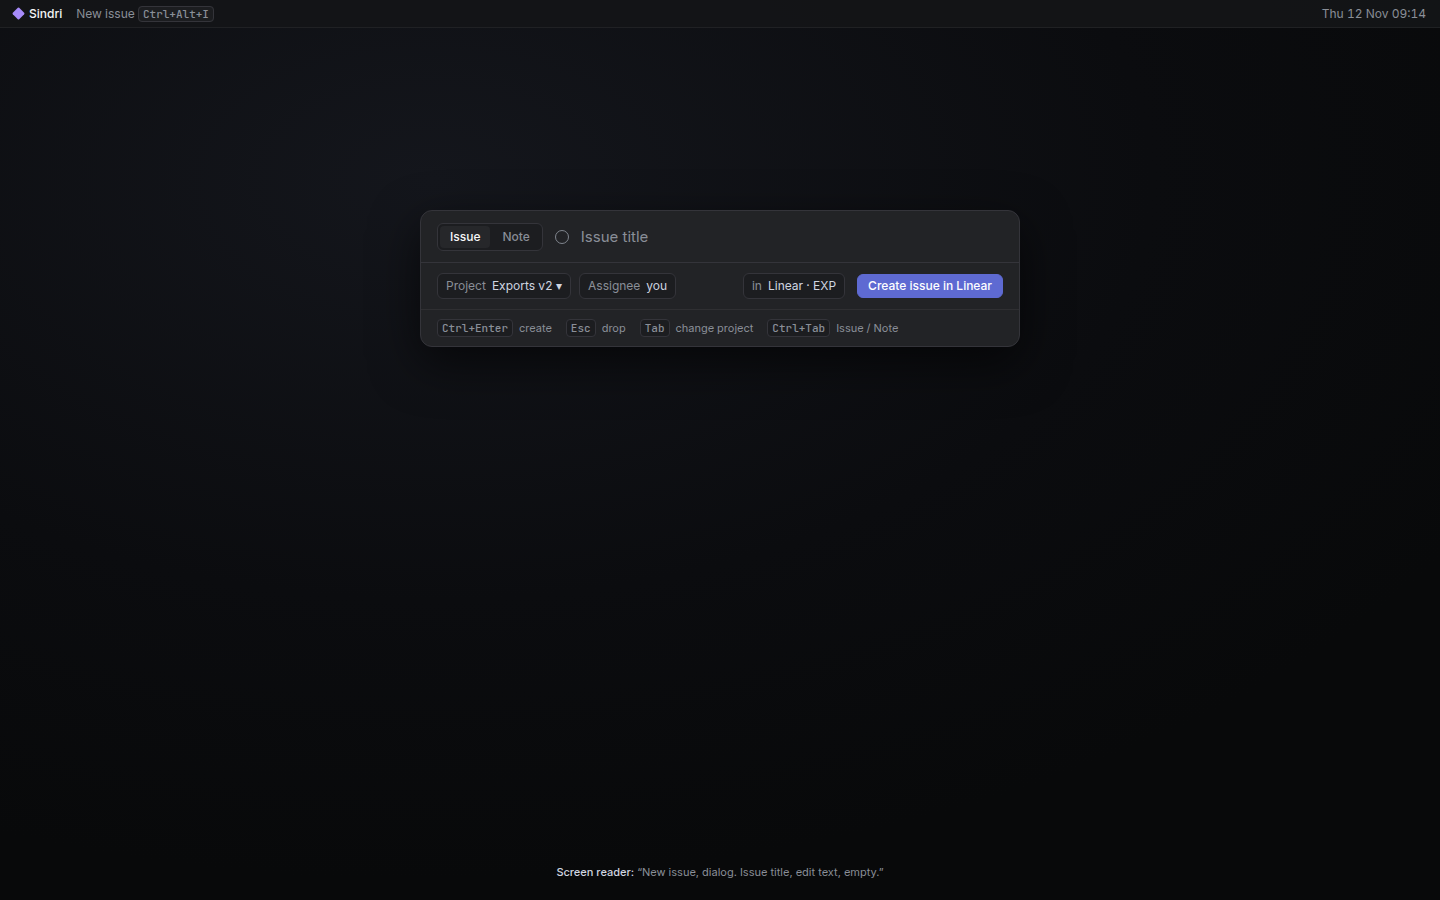
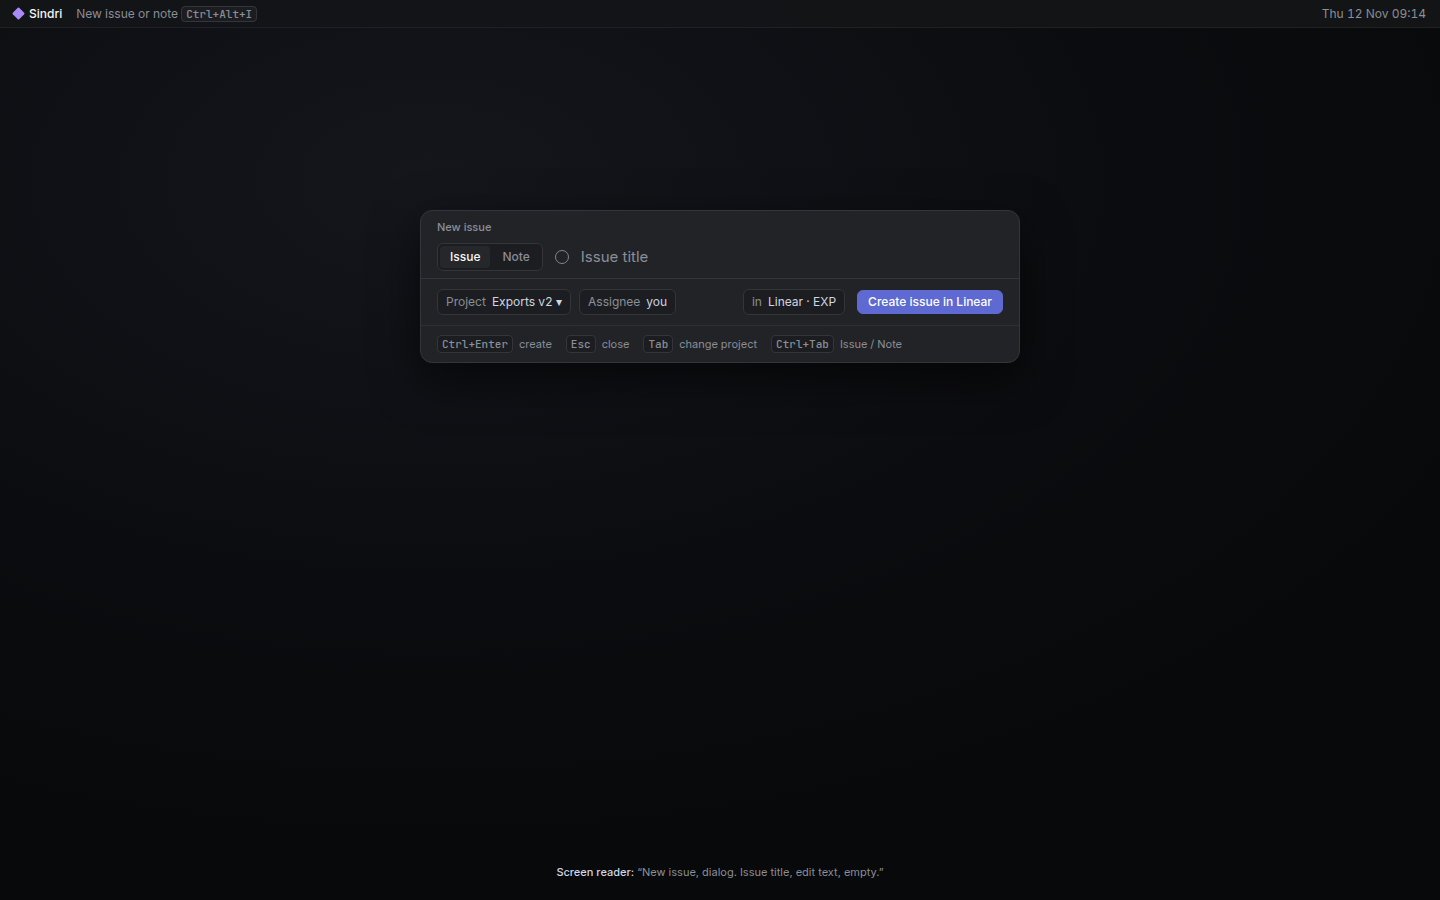
design: Projects create window title and shared hotkey row

Changed region(s): [[0.3125, 0.2489, 0.7188, 0.4044], [0.0938, 0.0, 0.1875, 0.0311]]

diff --git a/projects.css b/projects.css
@@ -126,3 +126,6 @@
 .kind{display:flex;background:var(--s2);border:1px solid var(--hair-strong);border-radius:var(--r2);padding:2px;gap:2px;flex:none}
 .kind a{font-size:12px;line-height:18px;padding:2px 10px;border-radius:var(--r1);color:var(--ink-subtle);font-weight:500}
 .kind a.on{background:var(--s4);color:var(--ink)}
+
+.cwin .wt{padding:8px 16px 0;font:500 11px/16px var(--font);color:var(--ink-subtle)}
+.cwin .in{min-height:44px;height:auto}

diff --git a/gen.py b/gen.py
@@ -230,18 +230,18 @@ write('home-update-reminder', home.replace('</body>', sr('row read as “Post th
 # ================= 5. #3170 the one-line create window from the tray hotkey =================
 def desk(inner, srtext=''):
     return (f'<!doctype html>\n<html lang="en"><head><meta charset="utf-8"><title>Create an issue</title><link rel="stylesheet" href="{G}"><link rel="stylesheet" href="projects.css"></head>'
-            f'<body><div class="desk"></div><div class="deskbar"><span class="tray">Sindri</span><span>New issue <kbd>Ctrl+Alt+I</kbd></span><span class="sp"></span><span>Thu 12 Nov 09:14</span></div>{inner}' + (f'<div class="sr" style="position:absolute;bottom:20px;left:0;right:0;text-align:center;font:400 11px/16px var(--font);color:var(--ink-subtle)"><b style="font-weight:500;color:var(--ink-muted)">Screen reader:</b> {srtext}</div>' if srtext else '') + '</body></html>\n')
+            f'<body><div class="desk"></div><div class="deskbar"><span class="tray">Sindri</span><span>New issue or note <kbd>Ctrl+Alt+I</kbd></span><span class="sp"></span><span>Thu 12 Nov 09:14</span></div>{inner}' + (f'<div class="sr" style="position:absolute;bottom:20px;left:0;right:0;text-align:center;font:400 11px/16px var(--font);color:var(--ink-subtle)"><b style="font-weight:500;color:var(--ink-muted)">Screen reader:</b> {srtext}</div>' if srtext else '') + '</body></html>\n')
 KIND = '<span class="kind"><a class="on">Issue</a><a>Note</a></span>'
-CW = ('<div class="cwin"><div class="in">' + KIND + '<span class="g todo"></span><span class="t">Retry timeout on export upload is 5 s, make it configurable<span class="caret" style="display:inline-block;vertical-align:-4px;margin-left:2px"></span></span></div>'
+CW = ('<div class="cwin"><div class="wt">New issue</div><div class="in">' + KIND + '<span class="g todo"></span><span class="t">Retry timeout on export upload is 5 s, make it configurable<span class="caret" style="display:inline-block;vertical-align:-4px;margin-left:2px"></span></span></div>'
       '<div class="pre"><span class="pc"><span>Project</span>Exports v2 ▾</span><span class="pc"><span>Assignee</span>you</span><span class="sp"></span><span class="pc"><span>in</span>Linear · EXP</span><span class="btn primary" style="margin-left:4px">Create issue in Linear</span></div>'
-      '<div class="ft"><span><kbd>Ctrl+Enter</kbd>create</span><span><kbd>Esc</kbd>drop</span><span><kbd>Tab</kbd>change project</span><span><kbd>Ctrl+Tab</kbd>Issue / Note</span></div></div>')
+      '<div class="ft"><span><kbd>Ctrl+Enter</kbd>create</span><span><kbd>Esc</kbd>close</span><span><kbd>Tab</kbd>change project</span><span><kbd>Ctrl+Tab</kbd>Issue / Note</span></div></div>')
 CWNS = CW.replace(KIND, '').replace('<span><kbd>Ctrl+Tab</kbd>Issue / Note</span>', '')
 NOTE1 = '<div class="cnote" style="position:absolute;left:50%;top:372px;transform:translateX(-50%);font-size:12px;color:var(--ink-subtle);width:600px">The window always opens on Note. Ctrl+Tab switches to Issue. Ctrl+Enter creates; Enter never does.</div>'
 NOTE0 = NOTE1.replace('The window always opens on Note. Ctrl+Tab switches to Issue. Ctrl+Enter creates; Enter never does.', 'No notes folder is set in Settings, so the switch is hidden and the window reads issue-only.')
 write('create-window', desk(CW + NOTE1, '“New issue, dialog. Kind switch, Issue selected, 1 of 2. Issue title, edit text. Project Exports v2. Assignee you.” Control Tab switches kind; Control Enter creates, Escape closes.'))
 write('create-window-no-switch', desk(CWNS + NOTE0, '“New issue, dialog. Issue title, edit text. Project Exports v2. Assignee you.” There is no kind switch until a notes folder is set.'))
 write('create-window-empty', desk(CW.replace('Retry timeout on export upload is 5 s, make it configurable<span class="caret" style="display:inline-block;vertical-align:-4px;margin-left:2px"></span>', '<span class="t ph" style="color:var(--ink-subtle)">Issue title</span>'), '“New issue, dialog. Issue title, edit text, empty.”'))
-CWERR = CW.replace('<div class="pre">', '<div class="state-line err" style="margin:0;border-radius:0;height:auto;padding:8px 16px;align-items:start"><span class="g fail" style="margin-top:3px"></span><span class="what" style="white-space:normal;overflow:visible">Couldn’t create the issue. The line stays as you wrote it. Check your connection, then try again.<br><span class="det" style="font:400 11px/16px var(--mono);margin:0">Details ▸ SND-NOTE-015</span></span><span class="btns">' + btn('Try again', True) + '</span></div><div class="pre">')
+CWERR = CW.replace('class="btn primary" style="margin-left:4px">Create issue in Linear','class="btn" style="margin-left:4px">Create issue in Linear').replace('<div class="pre">', '<div class="state-line err" style="margin:0;border-radius:0;height:auto;padding:8px 16px;align-items:start"><span class="g fail" style="margin-top:3px"></span><span class="what" style="white-space:normal;overflow:visible">Couldn’t create the issue. The line stays as you wrote it. Check your connection, then try again.<br><span class="det" style="font:400 11px/16px var(--mono);margin:0">Details ▸ SND-NOTE-015</span></span><span class="btns">' + btn('Try again', True) + '</span></div><div class="pre">')
 write('create-window-error', desk(CWERR, '“Couldn’t create the issue. The line stays as you wrote it. Check your connection, then try again. Try again button.” Details: SND-NOTE-015. The window stays open and focus stays in the title.'))
 write('create-window-done', desk('<div class="notif"><div class="h">Sindri</div><div>Created <span class="id">EXP-437</span> in Exports v2</div><div style="color:var(--ink-subtle);font-size:12px">Retry timeout on export upload is 5 s, make it configurable</div><div class="acts">' + btn('Open in Linear') + btn('Copy link') + '</div></div>', '“Notification: Created EXP-437 in Exports v2. Actions: Open in Linear, Copy link.”'))
 
@@ -253,8 +253,8 @@ def setrow(label, sub, right, first=False):
     d = '' if first else '<div class="sdiv"></div>'
     return f'{d}<div class="srw"><div class="stx"><div class="sl">{label}</div><div class="sc">{sub}</div></div><div class="sctl">{right}</div></div>'
 SHORT = ('<div class="ssec"><div class="shd">Shortcuts</div><div class="scard">'
-  + setrow('New issue from anywhere', 'Opens the one-line create window, even with the main window closed.', '<kbd>Ctrl+Alt+I</kbd>' + btn('Change'), True)
-  + '<div class="serr"><span class="g fail"></span><span>The OS refused this hotkey. The tray item “New issue or note” still works.</span><span class="sp"></span>' + btn('Pick another key', True) + '</div>'
+  + setrow('Capture hotkey', 'Opens the capture window for an issue or a note, from anywhere, even with the main window closed.', '<kbd>Ctrl+Alt+I</kbd>' + btn('Change'), True)
+  + '<div class="serr"><span class="g fail"></span><span>The OS refused this hotkey. The tray item “New issue or note” still works. <span class="mono" style="font-size:11px;color:var(--ink-subtle)">Details ▸ SND-NOTE-017</span></span><span class="sp"></span>' + btn('Pick another key', True) + '</div>'
   + '</div></div>')
 THISAPP = ('<div class="ssec"><div class="shd">This app</div><div class="scard">'
   + setrow('Reduce motion', 'Turns off the slides and fades.', '<span class="tgl"><i></i></span>', True)
@@ -272,8 +272,8 @@ cont = (f'''<!doctype html>
 </div></body></html>
 ''')
 TRAY = ('<div class="menu" style="right:14px;top:34px;left:auto;width:200px;padding:4px 0">'
-        '<div class="ment on"><span class="lab">New issue</span></div><div class="ment"><span class="lab">Open Sindri</span></div></div>')
-write('settings-hotkey-refused', cont.replace('</body>', TRAY + sr('the Shortcuts heading is a level 2 heading; the row reads “New issue from anywhere, shortcut Control Alt I”, then the error line, then “Pick another key, button”.') + '</body>'))
+        '<div class="ment on"><span class="lab">New issue or note</span></div><div class="ment"><span class="lab">Open Sindri</span></div></div>')
+write('settings-hotkey-refused', cont.replace('</body>', TRAY + sr('the Shortcuts heading is a level 2 heading; the row reads “Capture hotkey, shortcut Control Alt I”, then the error line, then “Pick another key, button”.') + '</body>'))
 
 # ================= round 3d: projects-list and projects-peek redrawn on section 14's final rules =================
 mini = ns['mini']
